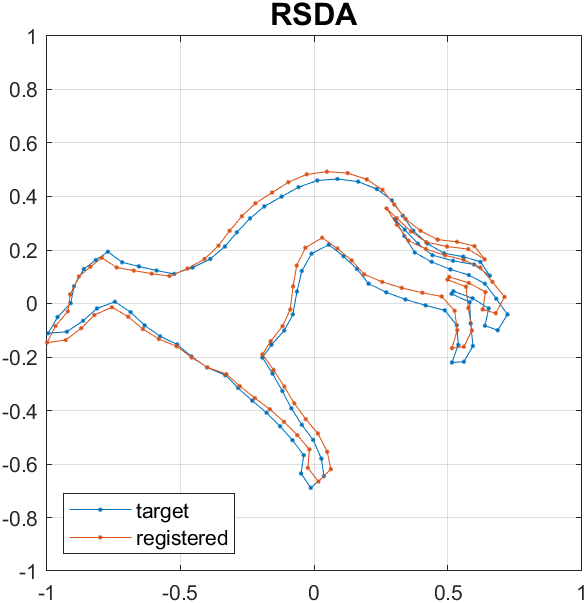
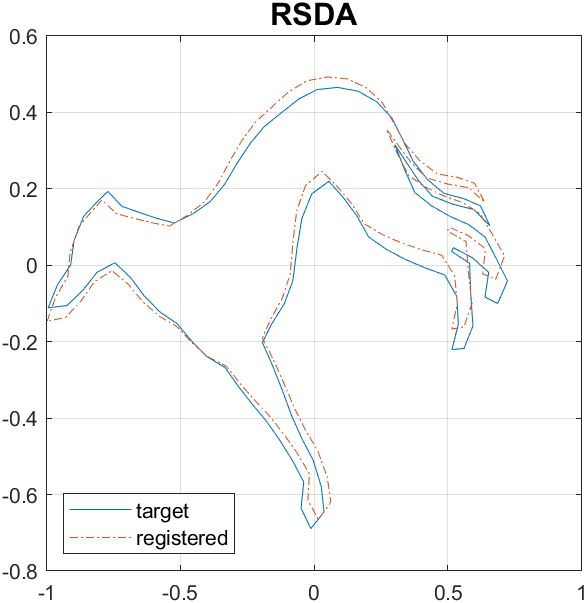
updated

diff --git a/2d/ehl_icp/ehl_icp_2d.m b/2d/ehl_icp/ehl_icp_2d.m
@@ -119,54 +119,12 @@ end
 
 % plot registered shape
 f = figure('visible', 'off');
-plot(X2(:,1), X2(:,2), Xreg(:,1), Xreg(:,2), 'LineStyle','none',  'Marker','.', 'MarkerSize',2);
+plot(X2(:,1), X2(:,2), Xreg(:,1), Xreg(:,2), '-.', 'MarkerSize',2);
 ax = gca; ax.FontSize = 10; ax.PlotBoxAspectRatio = [1 1 1];
 title('EHL-ICP', 'FontSize',15);
 legend('target', 'registered', 'FontSize',10, 'Location','southwest');
 grid on;
 exportgraphics(f, strcat(shape, '_ehl_icp.png'));
-
-
-
-% %% --- Visualization with Fixed Axis ---
-% all_pts = [X1_used; X2; Xreg];
-% min_x = min(all_pts(:,1));
-% max_x = max(all_pts(:,1));
-% min_y = min(all_pts(:,2));
-% max_y = max(all_pts(:,2));
-% buffer_x = 0.05 * (max_x - min_x + eps);
-% buffer_y = 0.05 * (max_y - min_y + eps);
-% x_limits = [min_x-buffer_x, max_x+buffer_x];
-% y_limits = [min_y-buffer_y, max_y+buffer_y];
-
-% figure('Name','EHL-ICP (Hamiltonian, As Paper, Auto-Flip, Fast Converge)','NumberTitle','off');
-% subplot(2,3,1);
-% plot(X1_used(:,1), X1_used(:,2), 'r--', 'LineWidth', 1.5);
-% title('Source Shape (Used)'); axis equal; grid on;
-% xlim(x_limits); ylim(y_limits);
-% 
-% subplot(2,3,2);
-% plot(X2(:,1), X2(:,2), 'g-', 'LineWidth', 2);
-% title('Target Shape'); axis equal; grid on;
-% xlim(x_limits); ylim(y_limits);
-% 
-% subplot(2,3,3);
-% plot(X2(:,1), X2(:,2), 'g-', 'LineWidth', 2); hold on;
-% plot(X1_used(:,1), X1_used(:,2), 'r--', 'LineWidth', 1.5);
-% plot(Xreg(:,1), Xreg(:,2), 'b-.', 'LineWidth', 2);
-% title('EHL-ICP Hamiltonian Alignment'); axis equal; grid on;
-% legend('Target','Source','Registered');
-% xlim(x_limits); ylim(y_limits);
-% 
-% subplot(2,3,[4 5]);
-% plot(1:k, ER, 'k--o', 'LineWidth', 1.5);
-% xlabel('Iteration'); ylabel('RMS Error');
-% title('Convergence Plot'); grid on;
-% 
-% subplot(2,3,6);
-% bar(k, 'FaceColor', [0.3 0.6 0.8]);
-% title('Iterations Used'); ylabel('Count'); grid on;
-% set(gca,'XTickLabel',{'EHL-ICP-H'});
 
 
 %% --- Console Output ---

diff --git a/2d/rsda/rsda_2d.m b/2d/rsda/rsda_2d.m
@@ -1,9 +1,7 @@
 clear all; close all; 
 
-shape = "lizard";
-% shape = "dog";
-% shape = "butterfly";
-% shape = "bird";
+% shape = "lizard";
+shape = "dog";
 
 %% Load source and target shapes
 %*******************************
@@ -81,7 +79,7 @@ end
 %% plot registered shape
 %-----------------------
 f = figure('visible', 'off');
-plot(X2(1,:), X2(2,:), Xreg(1,:), Xreg(2,:), 'LineStyle','none',  'Marker','.', 'MarkerSize',2);
+plot(X2(1,:), X2(2,:), Xreg(1,:), Xreg(2,:), '-.', 'MarkerSize',2);
 % xlim([-1,1]); ylim([-1,1]); 
 ax = gca; ax.FontSize = 10; ax.PlotBoxAspectRatio = [1 1 1];
 title('RSDA', 'FontSize',15);
@@ -89,30 +87,6 @@ legend('target', 'registered', 'FontSize',10, 'Location','southwest');
 grid on;
 exportgraphics(f, strcat(shape, '_rsda.png'));
 
-
-% figure('Name','Riemannian SD ICP-2D Registration','NumberTitle','off');
-% subplot(2,2,1);
-% scatter(X1(1,:), X1(2,:), 8, 'r', 'filled');
-% title('Source Shape'); axis equal; grid on;
-% 
-% subplot(2,2,2);
-% scatter(X2(1,:), X2(2,:), 8, 'g', 'filled');
-% title('Target Shape'); axis equal; grid on;
-% 
-% subplot(2,2,3);
-% hold on;
-% scatter(X1(1,:), X1(2,:), 8, 'r', 'filled');         
-% scatter(X2(1,:), X2(2,:), 8, 'g', 'filled');        
-% scatter(Xreg(1,:), Xreg(2,:), 8, 'b', 'filled');    
-% title('Source, Target, Registered Shape');
-% axis equal; grid on; 
-% legend('Source','Target','Registered');
-% hold off;
-% 
-% subplot(2,2,4);
-% plot(0:n_iter, errors, 'k--o', 'LineWidth', 1.5);
-% xlabel('Iteration'); ylabel('RMS Error');
-% title('Convergence'); grid on;
 
 
 fprintf('\n--- Riemannian Steepest Descent ICP 2D Registration ---\n');

diff --git a/2d/icp/icp_main.m b/2d/icp/icp_main.m
@@ -50,13 +50,12 @@ end
 
 
 
-
 %% construct plots
 %*****************
 
 % plot source and target
 f = figure('visible', 'off');
-plot(src_pts3(1,:), src_pts3(2,:), tgt_pts3(1,:), tgt_pts3(2,:), 'LineStyle','none', 'Marker','.', 'MarkerSize',2);
+plot(src_pts3(1,:), src_pts3(2,:), tgt_pts3(1,:), tgt_pts3(2,:), '-.', 'MarkerSize',2);
 ax = gca; ax.FontSize = 10; ax.PlotBoxAspectRatio = [1 1 1];
 title(strcat(shape," Test Set"), 'FontSize',15);
 % legend('source', 'target', 'FontSize',10, 'Location','southwest');
@@ -66,7 +65,7 @@ exportgraphics(f, strcat(shape, '_data.png'));
 
 % plot registered shape
 f = figure('visible', 'off');
-plot(tgt_pts3(1,:), tgt_pts3(2,:), src_icp(1,:), src_icp(2,:),  'LineStyle','none',  'Marker','.', 'MarkerSize',2);
+plot(tgt_pts3(1,:), tgt_pts3(2,:), src_icp(1,:), src_icp(2,:), '-.', 'MarkerSize',2);
 ax = gca; ax.FontSize = 10; ax.PlotBoxAspectRatio = [1 1 1];
 title('ICP', 'FontSize',15);
 % legend('target', 'registered', 'FontSize',10, 'Location','southwest');

diff --git a/2d/rcg/rcg_se2.m b/2d/rcg/rcg_se2.m
@@ -13,7 +13,7 @@ T = load(tgtFile); X2 = T.contour;  % target
 
 
 
-opts.max_iter = 40;
+opts.max_iter = 60;
 opts.retraction_type = 'identity';
 opts.xtol = 1e-5;
 opts.gtol = 1e-5;
@@ -53,7 +53,7 @@ end
 % plot registered shape
 %----------------------
 f = figure('visible', 'off');
-plot(X2(:,1), X2(:,2), Xreg(:,1), Xreg(:,2), 'LineStyle','none', 'Marker','.', 'MarkerSize',2);
+plot(X2(:,1), X2(:,2), Xreg(:,1), Xreg(:,2), '-.', 'MarkerSize',2);
 ax = gca; ax.FontSize = 10; ax.PlotBoxAspectRatio = [1 1 1];
 title('Proposed RCG', 'FontSize',15);
 % legend('target', 'registered', 'FontSize',10, 'Location','southwest');
